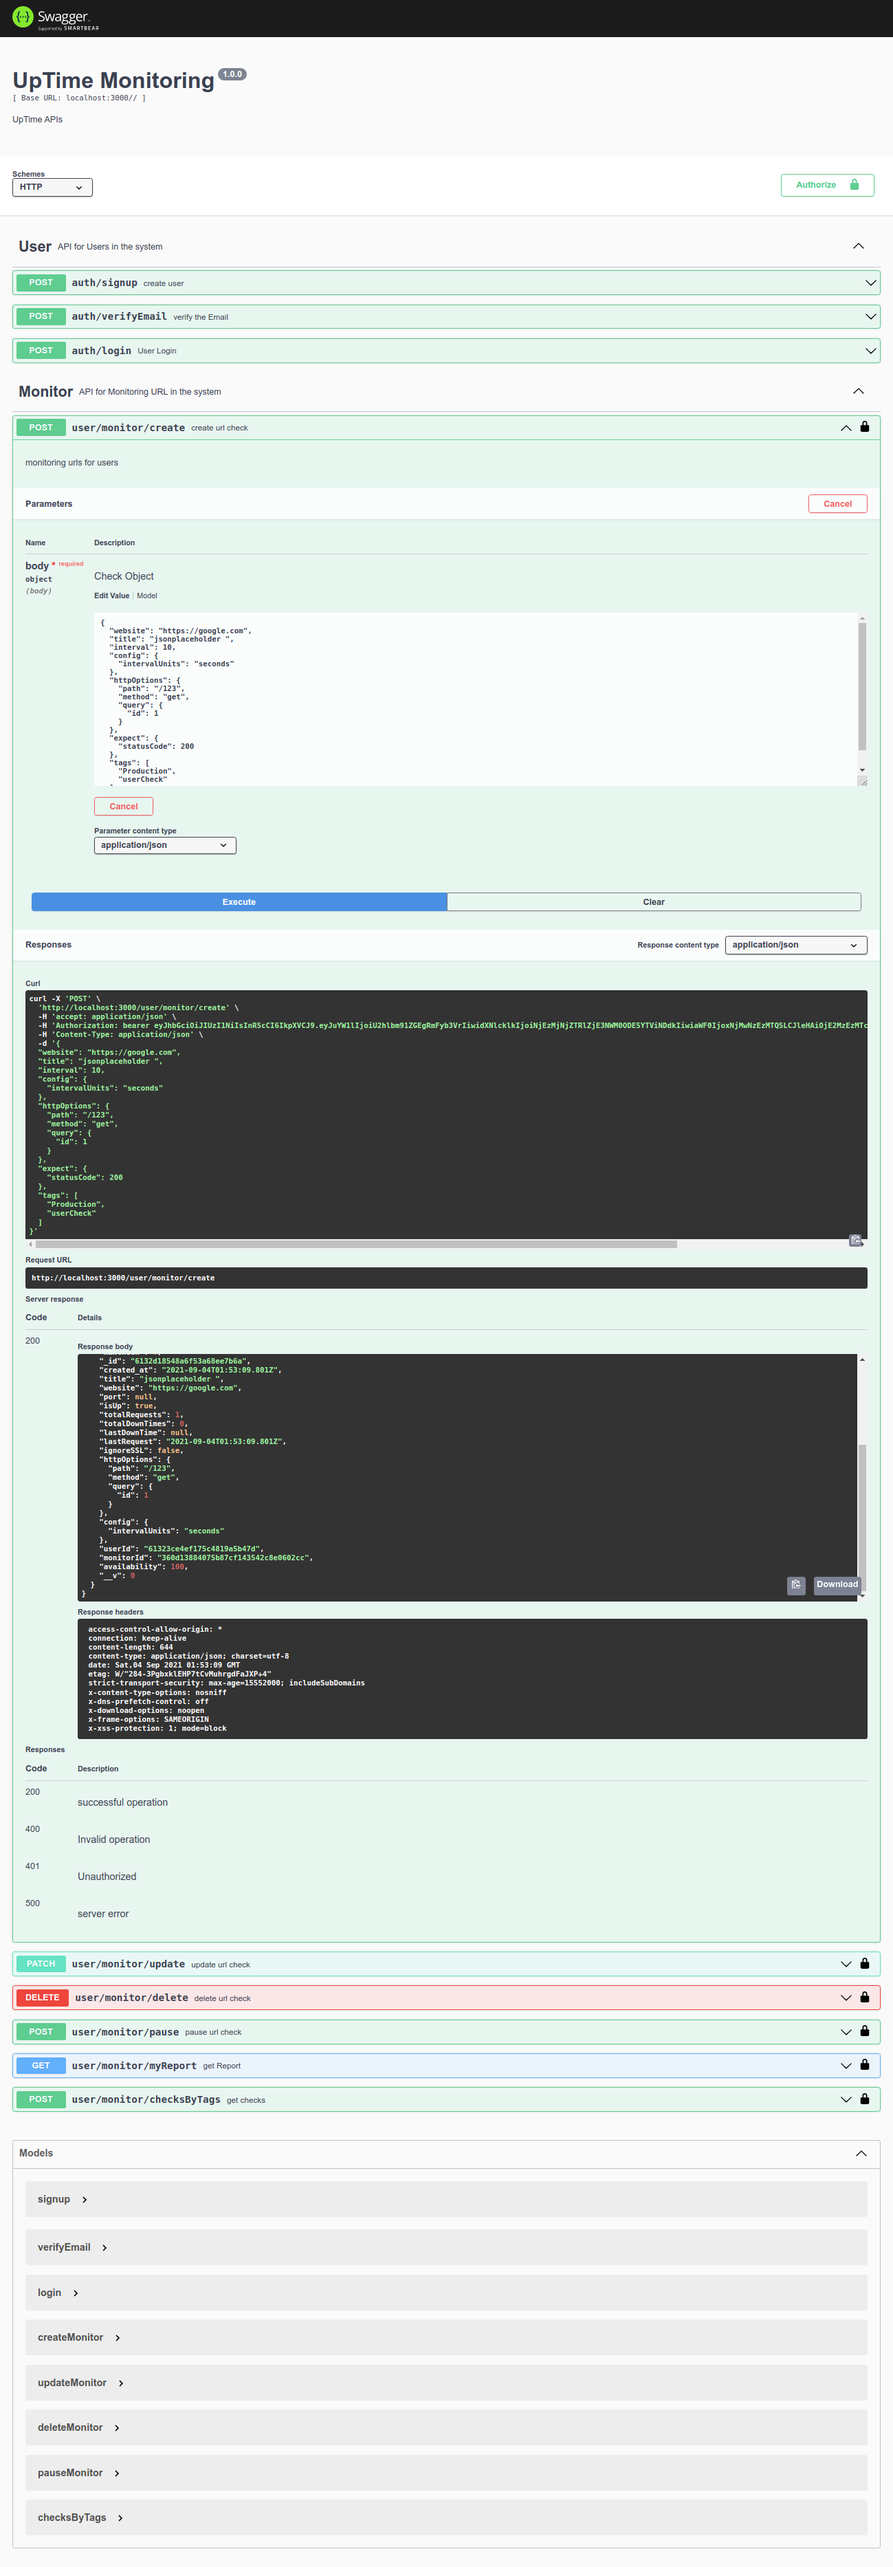
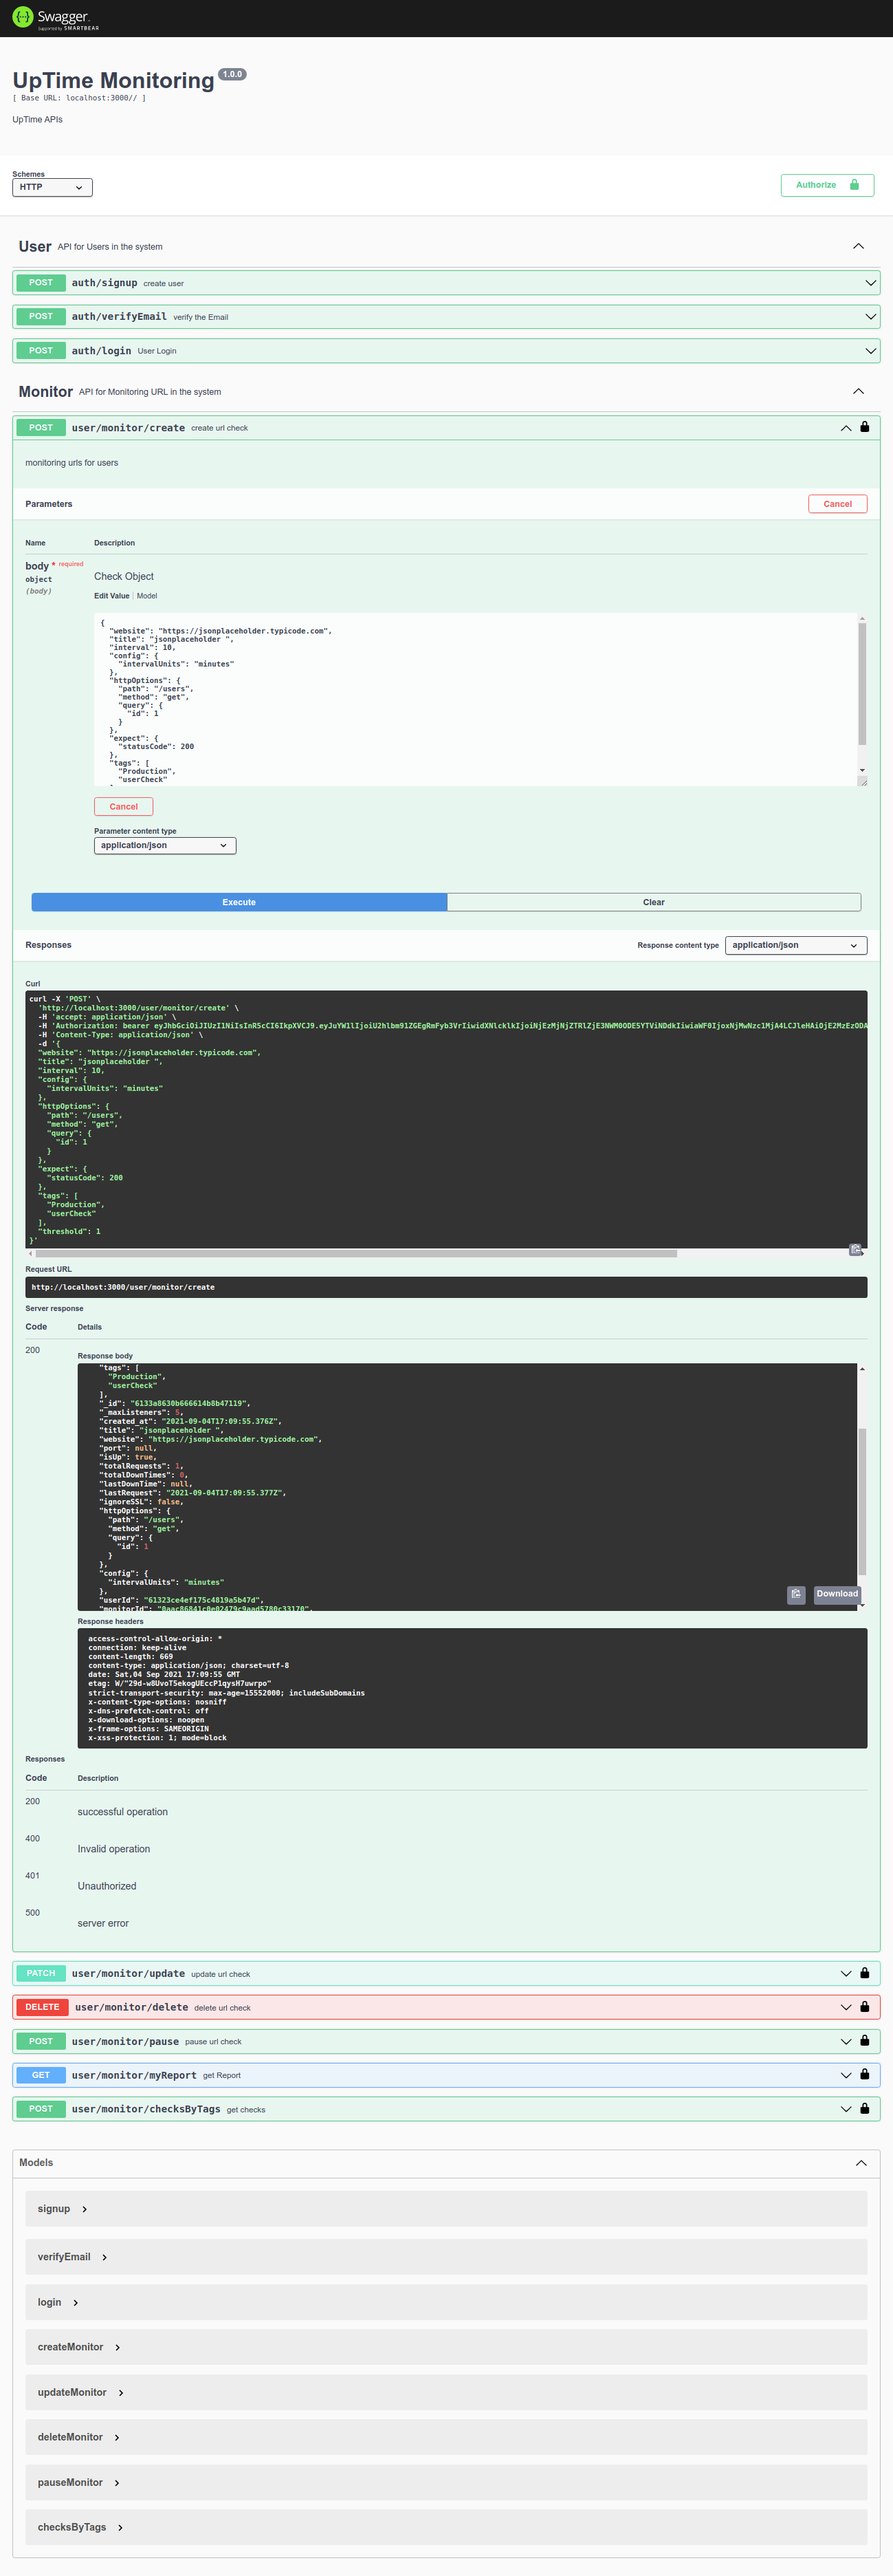
Code refactoring

diff --git a/monitor-server.js b/monitor-server.js
@@ -12,17 +12,19 @@ async function pingServers(monitorData, prevData) {
     monitor = new Monitor(monitorData);
   }
 
-  monitor
+  monitor.userId = monitorData.userId;
+  monitor.monitorId = monitor.id;
+  monitor.availability =
+    ((monitor.totalRequests - monitor.totalDownTimes) / monitor.totalRequests) * 100;
+  monitor.tags = monitorData.tags;
+  monitor.threshold = monitorData.threshold;
   monitor.on("up", function (res, state) {
     console.log("Yay!! " + state.website + " is up.");
     updateDate(res, state, monitor);
   });
 
   monitor.on("down", async function (res, state) {
-    if (
-      monitorData.threshold == monitor.totalDownTimes ||
-      monitor.totalDownTimes == 1
-    ) {
+    if (monitorData.threshold == monitor.totalDownTimes) {
       new MailService().send({
         to: monitorData.userEmail,
         type: "ALERT_NOTIFICATION",
@@ -39,10 +41,7 @@ async function pingServers(monitorData, prevData) {
   });
 
   monitor.on("error", function (res, state) {
-    if (
-      monitorData.threshold == monitor.totalDownTimes ||
-      monitor.totalDownTimes == 1
-    ) {
+    if (monitorData.threshold == monitor.totalDownTimes) {
       console.log(monitorData.userEmail);
       new MailService().send({
         to: monitorData.userEmail,
@@ -73,54 +72,48 @@ async function pingServers(monitorData, prevData) {
 
 async function updateDate(res, state, monitorObj) {
   try {
-    let monitor = await MonitorModel.findOne({ website: monitorObj.website, userId: monitorObj.userId });
-    if (monitorObj._maxListeners == monitor.maxCheck) {
-      monitorObj.stop()
+    let monitor = await MonitorModel.findOne({
+      website: monitorObj.website,
+      userId: monitorObj.userId,
+    });
+    if (monitorObj._maxListeners == monitorObj.totalRequests) {
+      monitorObj.stop();
     }
     if (monitor) {
-      if (monitor.paused){
-        monitorObj.pause()
+      if (monitor.paused) {
+        monitorObj.pause();
         console.log(state.website + " Monitor has Paused.");
       }
       let availability =
         ((monitor.totalRequests - monitor.totalDownTimes) /
-          monitor.totalRequests) *
-        100;
-      
-      if (state.statusCode == 500) {
-        await MonitorModel.updateMany(
-          { website: monitorObj.website, userId: monitorObj.userId },
-          {
-            $set: {
-              ...state,
-              maxCheck: monitor.maxCheck + 1,
-              avgResponseTime:
-                (monitor.avgResponseTime + state.responseTime) /
-                monitor.totalRequests,
-              availability,
-            },
-          }
-        );
-      } else {
-        await MonitorModel.updateMany(
-          { website: state.website, userId: monitorObj.userId },
-          {
-            $set: {
-              ...state,
-              maxCheck: monitor.maxCheck + 1,
-              avgResponseTime:
-                (monitor.avgResponseTime + res.responseTime) /
-                monitor.totalRequests,
-              availability,
-            },
-          }
-        );
-      }
+          monitor.totalRequests) * 100;
+
+      let responseTime =
+        state.statusCode == 500 ? state.responseTime : res.responseTime;
+      await MonitorModel.updateOne(
+        {
+          website: monitorObj.website,
+          userId: monitorObj.userId,
+        },
+        {
+          $set: {
+            isUp: monitorObj.isUp,
+            paused: monitorObj.paused,
+            totalRequests: monitorObj.totalRequests,
+            totalDownTimes: monitorObj.totalDownTimes,
+            lastDownTime: monitorObj.lastDownTime,
+            lastRequest: monitorObj.lastRequest,
+            interval: monitorObj.interval,
+            avgResponseTime:
+              (monitor.avgResponseTime + responseTime) / monitor.totalRequests,
+            availability,
+          },
+        }
+      );
     }
   } catch (error) {
     console.log(error);
   }
 }
-
 
 module.exports = pingServers;

diff --git a/services/MonitorService.js b/services/MonitorService.js
@@ -1,11 +1,10 @@
 const Monitor = require("../models/Monitor");
 const User = require("../models/User");
 const pingServers = require("../monitor-server");
-const mongoose = require("mongoose");
 
 class MonitorService {
   async create(data) {
-    let { userId, website, threshold, tags, confing } = data;
+    let { userId, website, threshold } = data;
 
     let check = await Monitor.findOne({ userId, website });
 
@@ -16,17 +15,9 @@ class MonitorService {
         message: "this check is already exists",
       };
 
-    data._maxListeners = 5
+    data._maxListeners = 5;
+    data.threshold = threshold ? threshold : 1;
     let monitor = await pingServers(data, null);
-    monitor.userId = userId;
-    monitor.monitorId = monitor.id;
-    monitor.availability =
-      ((monitor.totalRequests - monitor.totalDownTimes) /
-        monitor.totalRequests) *
-      100;
-    monitor.threshold = threshold;
-    monitor.confing = confing
-    monitor.tags = tags;
     let checkDate = await new Monitor(monitor).save();
 
     return checkDate;
@@ -44,12 +35,16 @@ class MonitorService {
         message: "This check is NOT exists",
       };
 
-    let user = await User.findOne({_id: userId})
-    updatedData.userEmail = user.email
+    let user = await User.findOne({ _id: userId });
+    updatedData.userEmail = user.email;
+    updatedData.userId = user._id;
     let prevData = {
       website: check.website,
       interval: check.interval,
     };
+
+    updatedData.threshold = updatedData.threshold ? updatedData.threshold : 1;
+    updatedData._maxListeners = 5;
     await pingServers(updatedData, prevData);
 
     await Monitor.updateOne({ _id: id }, { $set: updatedData });
@@ -57,8 +52,8 @@ class MonitorService {
     return;
   }
 
-  async pause(id) {
-    let check = await Monitor.findOne({ _id: id });
+  async pause(id, userId) {
+    let check = await Monitor.findOne({ _id: id, userId });
 
     if (!check)
       throw {
@@ -72,8 +67,8 @@ class MonitorService {
     return check;
   }
 
-  async delete(id) {
-    const check = await Monitor.findByIdAndDelete(mongoose.Types.ObjectId(id));
+  async delete(id, userId) {
+    const check = await Monitor.findOneAndDelete({ _id: id, userId });
 
     if (!check)
       throw {
@@ -95,7 +90,7 @@ class MonitorService {
       title: check.title,
       website: check.website,
       status: check.isUp == true ? "ONLINE" : "DOWN",
-      availability: `${parseInt(check.availability)}%` ,
+      availability: `${parseInt(check.availability)}%`,
       outages: check.totalDownTimes,
       uptime: check.uptime,
       downtime: check.downtime,

diff --git a/controller/monitorController.js b/controller/monitorController.js
@@ -39,7 +39,7 @@ class MonitorController {
 
   async delete(req, res, next) {
     try {
-      const response = await this.monitorService.delete(req.body.id);
+      const response = await this.monitorService.delete(req.body.id , req.user.id);
       return res.send({ status: "DELETE_SUCCESSFULLY", result: response });
     } catch (error) {
       console.error(error);
@@ -52,7 +52,7 @@ class MonitorController {
 
   async pause(req, res, next) {
     try {
-      const response = await this.monitorService.pause(req.body.id);
+      const response = await this.monitorService.pause(req.body.id, req.user.id);
       return res.send({ status: "PAUSED_SUCCESSFULLY", result: response });
     } catch (error) {
       console.error(error);

diff --git a/services/MailService.js b/services/MailService.js
@@ -70,6 +70,7 @@ class MailService {
       // send mail with defined transport object
       let info = await transporter.sendMail(mailOptions);
 
+      console.log(template);
       console.log("Message sent: %s", info.messageId);
       // Message sent: <b658f8ca-6296-ccf4-8306-87d57a0b4321@example.com>
     } catch (error) {

diff --git a/models/Monitor.js b/models/Monitor.js
@@ -81,9 +81,8 @@ const MonitorSchema = new Schema({
   tags: {
     type: Array
   },
-  maxCheck: {
-    type: Number,
-    default: 0
+  _maxListeners: {
+    type: Number
   }
 });
 
